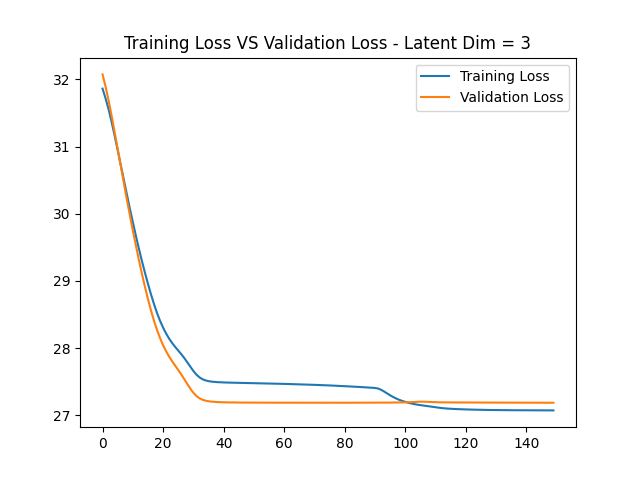
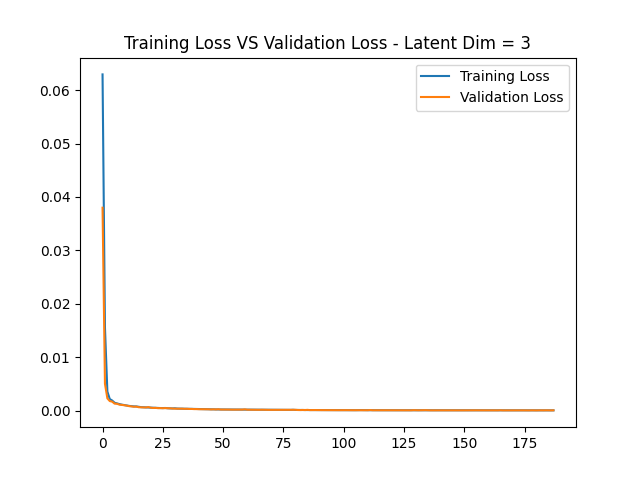
finally worked

diff --git a/project/main_2.py b/project/main_2.py
@@ -1,0 +1,154 @@
+import mesa_web as mw
+import pandas as pd
+import matplotlib.pyplot as plt
+import numpy as np
+import tensorflow as tf
+import os 
+import re
+
+from tensorflow import keras
+from sklearn.metrics import accuracy_score, precision_score, recall_score
+from sklearn.model_selection import train_test_split
+from keras import layers, losses, metrics
+from keras.datasets import fashion_mnist
+from keras.models import Model
+from scipy.interpolate import UnivariateSpline
+
+## Autoencoder class definition
+class Autoencoder(Model):
+    
+    def __init__(self, encoder_neurons, decoder_neurons, encoder_activations, decoder_activations):
+        super(Autoencoder, self).__init__()
+        
+        # Input validation
+        if len(encoder_neurons) != len(encoder_activations):
+            raise ValueError('The vector of neuron numbers for the encoder should be the same size as the activations')
+        if len(decoder_neurons) != len(decoder_activations):
+            raise ValueError('The vector of neuron numbers for the decoder should be the same size as the activations')
+
+        self.encoder_layers = []
+        self.decoder_layers = []
+
+        """
+        # Define the encoder
+        self.encoder_layers.append(layers.InputLayer(input_shape=(decoder_neurons[-1],)))
+        for neurons, activation in zip(encoder_neurons, encoder_activations):
+            self.encoder_layers.append(layers.Dense(neurons, activation=activation))
+
+        # Define the decoder
+        for neurons, activation in zip(decoder_neurons, decoder_activations):
+            self.decoder_layers.append(layers.Dense(neurons, activation=activation))
+
+        self.encoder = tf.keras.Sequential(self.encoder_layers)
+        self.decoder = tf.keras.Sequential(self.decoder_layers)
+        """
+        self.encoder = tf.keras.Sequential([layers.InputLayer(shape=(50,)),layers.Dense(100,'relu'),layers.Dense(2,'relu')])
+        self.decoder = tf.keras.Sequential([layers.Dense(100,'relu'),layers.Dense(50,'sigmoid')])
+
+
+    def call(self, inputs):
+        encoded = self.encoder(inputs)
+        decoded = self.decoder(encoded)
+        return decoded
+
+# Import parameters
+cwd = os.getcwd()
+dir_names = ['MESA-Web_M07_Z00001', 'MESA-Web_M07_Z002', 'MESA-Web_M10_Z002', 'MESA-Web_M10_Z0001']
+column_filter = ['mass', 'radius', 'initial_mass', 'initial_z', 'star_age', 'logRho', 'logT', 'Teff', 'energy', 'photosphere_L', 'photosphere_r', 'star_mass', 'h1', 'he3', 'he4']
+column_filter_train = ['mass', 'radius', 'logRho', 'logT', 'energy', 'h1', 'he3', 'he4']
+n_points = 50
+r = np.linspace(0, 1, n_points)
+
+for i, dir_name in enumerate(dir_names):
+    print(f"####\t\tIMPORTING DATA FROM FOLDER {dir_name}\t\t####")
+    dir_name = os.path.join(cwd, 'StellarTracks', dir_name)
+
+    def extract_number(filename):
+        match = re.search(r'\d+', filename)
+        return int(match.group()) if match else float('inf')
+
+    filenames = [filename for filename in os.listdir(dir_name) if re.fullmatch(r'profile[0-9]+\.data', filename)]
+    filenames = sorted(filenames, key=extract_number)
+
+    for j, filename in enumerate(filenames):
+        print(f"####\t\t\tIMPORTING FILE {filename}\t\t\t####")
+        filename = os.path.join(dir_name, filename)
+
+        data = mw.read_profile(filename)  # Assuming mw.read_profile is defined elsewhere
+
+        profile_df = pd.DataFrame(data)
+        filtered_profile_df = profile_df[column_filter].copy()
+        train_filtered_profile_df = profile_df[column_filter_train].copy()
+
+        # Normalization process
+        tot_radius = filtered_profile_df['photosphere_r']
+
+        norm_radius = (filtered_profile_df['radius'] - filtered_profile_df['radius'].min()) / (tot_radius - filtered_profile_df['radius'].min())
+        norm_radius = np.asarray(norm_radius.T)
+        log_rho = np.asarray(train_filtered_profile_df['logRho'].T)
+        int_log_rho = UnivariateSpline(norm_radius, log_rho, k=2, s=0)(r)
+
+        train_df = pd.DataFrame(data=int_log_rho.T, columns=[f"log_rho_{i}_{j}"])
+
+        if i == 0 and j == 0:
+            linear_train_df = train_df
+        else:
+            linear_train_df = pd.concat([linear_train_df, train_df], axis=1)
+
+print(linear_train_df.shape)
+print(linear_train_df)
+
+x_train, x_test = train_test_split(linear_train_df.T, test_size=0.2)
+x_train = x_train.values
+x_test = x_test.values
+print(x_train.shape)
+print(x_test.shape)
+shape = x_test.shape[1:]
+save_graphs = True
+
+for i in range(1, 10):
+    encoder_neurons = [100, i]
+    decoder_neurons = encoder_neurons[:-1][::-1]
+    decoder_neurons.append(n_points)
+    encoder_activations = ['relu'] * len(encoder_neurons)
+    decoder_activations = ['relu'] * (len(decoder_neurons) - 1)
+    decoder_activations.append('sigmoid')
+
+    autoencoder = Autoencoder(encoder_neurons=encoder_neurons, decoder_neurons=decoder_neurons,
+                              encoder_activations=encoder_activations, decoder_activations=decoder_activations)
+
+    autoencoder.compile(optimizer='adam', loss=losses.MeanSquaredError())
+
+    autoencoder.summary()
+    
+    history = autoencoder.fit(x_train, x_train,
+                              epochs=150,
+                              shuffle=True,
+                              validation_data=(x_test, x_test))
+
+    if save_graphs:
+        file_save_dir = os.path.join(os.getcwd(), "Graphs", f"TrainValLoss_dim_{i}.png")
+        plt.plot(history.history["loss"], label="Training Loss")
+        plt.plot(history.history["val_loss"], label="Validation Loss")
+        plt.title(f'Training Loss VS Validation Loss - Latent Dim = {i}')
+        plt.legend()
+        plt.savefig(file_save_dir)
+        plt.close()
+
+    decoded_imgs = autoencoder.predict(x_test)
+    print(decoded_imgs.shape)
+
+    n = 10  # How many digits we will display
+    plt.figure(figsize=(20, 4))
+    plt.title(f'Examples of fit with latent dimension = {i}')
+    for j in range(n):
+        # Display original
+        ax = plt.subplot(2, n, j + 1)
+        plt.scatter(r, x_test[j])
+        plt.gray()
+
+        # Display reconstruction
+        ax = plt.subplot(2, n, j + 1 + n)
+        plt.scatter(r, decoded_imgs[j])
+        plt.gray()
+    plt.show()

diff --git a/project/main.py b/project/main.py
@@ -13,6 +13,7 @@ from keras import layers, losses, metrics
 from keras.datasets import fashion_mnist
 from keras.models import Model
 from scipy.interpolate import UnivariateSpline
+from sklearn.preprocessing import MinMaxScaler
 
 ##Autoencoder class definition
 class Autoencoder(Model):
@@ -43,11 +44,14 @@ class Autoencoder(Model):
 
 ###Import parameters
 cwd=os.getcwd()
-dir_names=['MESA-Web_M07_Z00001']#'MESA-Web_M1_Z0001'
+dir_names = ['all']    #type 'all' if you want to use all the data  
 column_filter = ['mass','radius', 'initial_mass', 'initial_z', 'star_age', 'logRho','logT','Teff','energy','photosphere_L', 'photosphere_r', 'star_mass','h1','he3','he4']
 column_filter_train = ['mass','radius', 'logRho','logT','energy','h1','he3','he4']
-n_points=50
-r=np.linspace(0,1,n_points)
+n_points=100
+r=np.linspace(0,1,n_points+1)[1:]
+
+if (dir_names[0]=='all'):
+  dir_names=['MESA-Web_M07_Z00001', 'MESA-Web_M07_Z002','MESA-Web_M10_Z002','MESA-Web_M10_Z0001', 'MESA-Web_M10_Z00001','MESA-Web_M15_Z0001', 'MESA-Web_M15_Z00001', 'MESA-Web_M30_Z00001', 'MESA-Web_M30_Z002','MESA-Web_M50_Z00001', 'MESA-Web_M50_Z002', 'MESA-Web_M50_Z001', 'MESA-Web_M5_Z002', 'MESA-Web_M5_Z0001', 'MESA-Web_M1_Z00001', 'MESA-Web_M1_Z0001']
 
 for i,dir_name in enumerate(dir_names):
 
@@ -102,6 +106,10 @@ for i,dir_name in enumerate(dir_names):
     else:
       linear_train_df=pd.concat([linear_train_df,train_df],axis=1)
 
+
+scaler = MinMaxScaler()
+linear_train_df = pd.DataFrame(scaler.fit_transform(linear_train_df), columns=linear_train_df.columns)
+
 print(linear_train_df.shape)
 print(linear_train_df)
 
@@ -115,9 +123,8 @@ print(x_train)
 print(x_test)
 shape = x_test.shape[1:]
 save_graphs=True
-show_history=True
 
-for i in range(1,10,1):
+for i in range(1,10):
 
   ###Autoencoder parameters
   encoder_neurons=[100,i]                                         #last value should be the latent dimention
@@ -127,21 +134,22 @@ for i in range(1,10,1):
   decoder_activations=['relu']*(len(encoder_neurons)-1)                     #relu for better learning
   decoder_activations.append('sigmoid')                                     #at least the last value should be sigmoid
 
-  """
+  
   autoencoder = Autoencoder(encoder_neurons=encoder_neurons,decoder_neurons=decoder_neurons,\
                             encoder_activations=encoder_activations,decoder_activations=decoder_activations)
 
-  autoencoder.compile(optimizer='adam', loss=losses.MeanSquaredError(), metrics=[metrics.Accuracy()])
+  autoencoder.compile(optimizer='adam', loss=losses.MeanSquaredError())
 
   autoencoder.summary()
+  #for layer in autoencoder.layers: print(layer.get_config(), layer.get_weights())
   
   history = autoencoder.fit(x_train, x_train,
-                  epochs=150,
+                  epochs=1000,
                   shuffle=True,
-                  validation_data=(x_test, x_test))
-
-  if show_history:
-    print(history)
+                  validation_data=(x_test, x_test),
+                  callbacks=[tf.keras.callbacks.EarlyStopping(monitor='val_loss', patience=10)])
+  
+  #print(history.history)
 
   if save_graphs:
     file_save_dir=os.path.join(os.getcwd(),"Graphs",f"TrainValLoss_dim_{i}.png")
@@ -152,73 +160,24 @@ for i in range(1,10,1):
     plt.savefig(file_save_dir)
     plt.close()
   
-  decoded_imgs = autoencoder.predict(x_test)
-  """
-
-  input_img = keras.Input(shape=(50,))
-  # "encoded" is the encoded representation of the input
-  encoded = layers.Dense(i, activation='relu')(input_img)
-  # "decoded" is the lossy reconstruction of the input
-  decoded = layers.Dense(50, activation='sigmoid')(encoded)
-
-  # This model maps an input to its reconstruction
-  autoencoder = keras.Model(input_img, decoded)
-
-
-  # This model maps an input to its encoded representation
-  encoder = keras.Model(input_img, encoded)
-
-
-
-  # This is our encoded (32-dimensional) input
-  encoded_input = keras.Input(shape=(i,))
-  # Retrieve the last layer of the autoencoder model
-  decoder_layer = autoencoder.layers[-1]
-  # Create the decoder model
-  decoder = keras.Model(encoded_input, decoder_layer(encoded_input))
-
-
-  autoencoder.compile(optimizer='adam', loss='binary_crossentropy')
-
-  autoencoder.fit(x_train, x_train,
-                epochs=50,
-                batch_size=256,
-                shuffle=True,
-                validation_data=(x_test, x_test))
+  x_reconstructed = autoencoder.predict(x_test)
+  print(x_reconstructed.shape)
   
-  encoded_imgs = encoder.predict(x_test)
-  decoded_imgs = decoder.predict(encoded_imgs)
-  decoded_imgs=autoencoder.predict(x_test)
-
   n = 10  # How many digits we will display
   plt.figure(figsize=(20, 4))
-  for i in range(5):
+  plt.axis("off")
+  plt.title(f'Examples of fit with latent dimension = {i}')
+  for j in range(n):
       # Display original
-      ax = plt.subplot(2, n, i + 1)
-      plt.plot(r,x_test[i])
+      ax = plt.subplot(2, n, j + 1)
+      plt.scatter(r,x_test[j])
       plt.gray()
-      ax.get_xaxis().set_visible(False)
-      ax.get_yaxis().set_visible(False)
 
       # Display reconstruction
-      ax = plt.subplot(2, n, i + 1 + n)
-      plt.plot(r,decoded_imgs[i])
+      ax = plt.subplot(2, n, j + 1 + n)
+      plt.scatter(r,x_reconstructed[j])
       plt.gray()
-      ax.get_xaxis().set_visible(False)
-      ax.get_yaxis().set_visible(False)
-  plt.show()
-
-  #data=x_test.iloc[0]
-  #print(data)
-  #print(data.shape)
-  #predicted = autoencoder.predict(data[np.newaxis, :])[0]
-  #print(predicted)
-  #print(predicted.shape)
-  #plt.plot(r,data,label="Real")
-  #plt.plot(r,predicted,label="Reconstructed")
-  #plt.legend()
-  #plt.show()
-
-  #plt.plot(r,x_test.loc[0])
-  #plt.plot(r,autoencoder.predict(x_test.loc[0]))
-  #plt.show()
+  
+  file_save_dir=os.path.join(os.getcwd(),"Graphs",f"OriginalReconstructed_{i}.png")
+  plt.savefig(file_save_dir)
+  plt.close()
